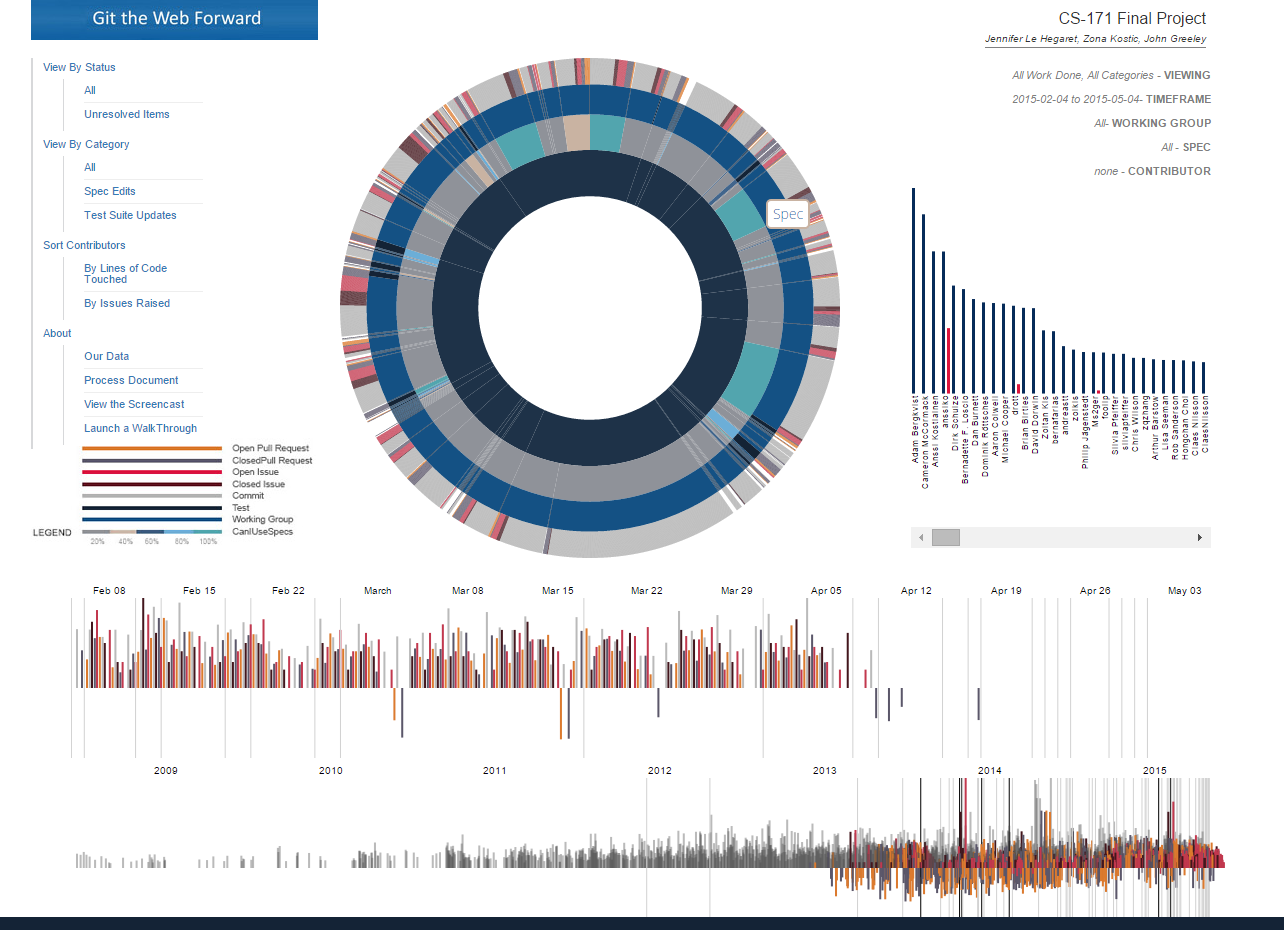
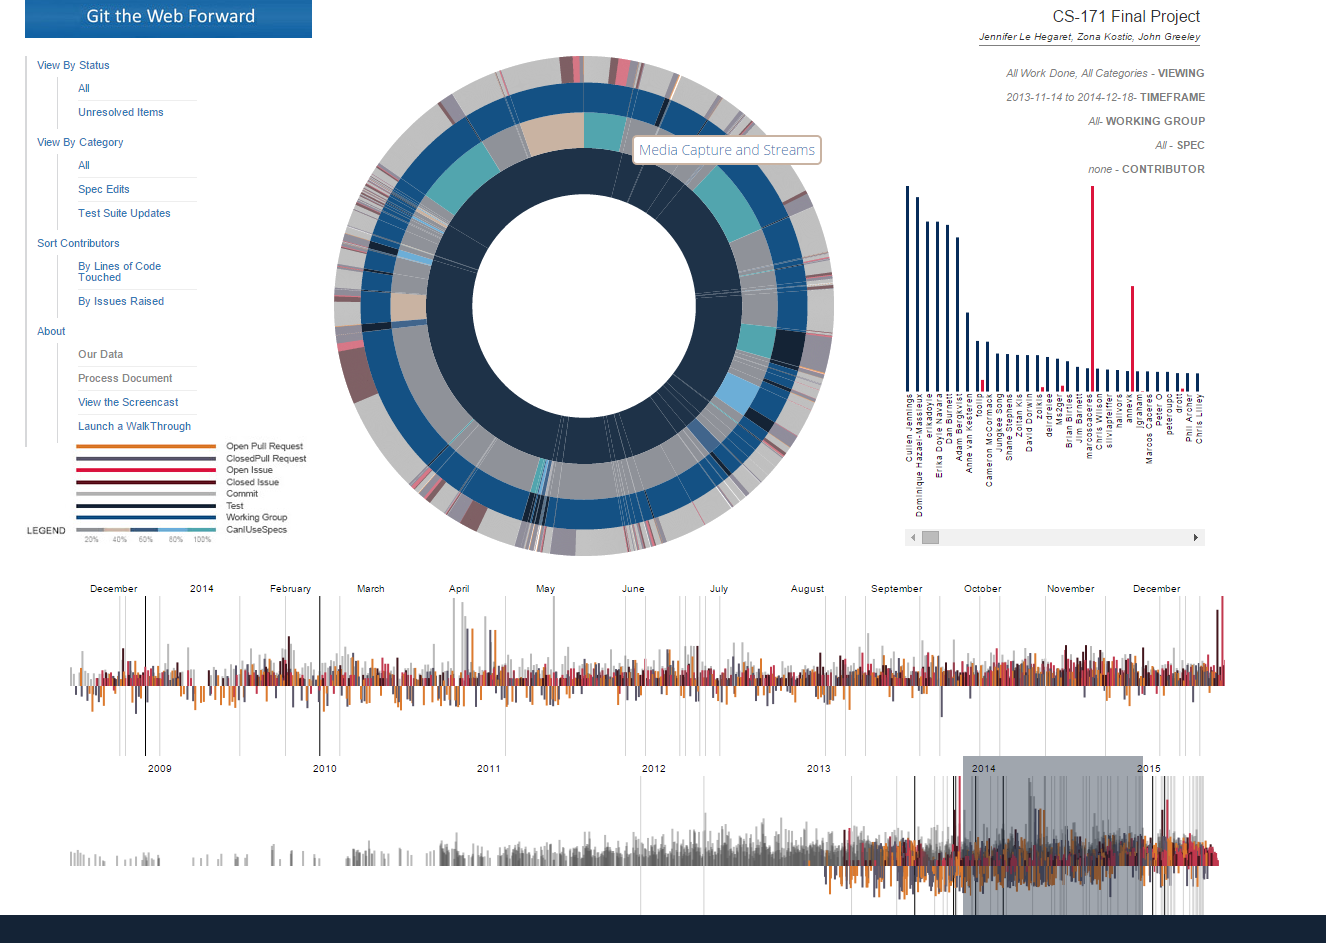
Screenshots

diff --git a/process_doc/design_timeline.md b/process_doc/design_timeline.md
@@ -58,13 +58,7 @@ However, at this point, the timeline has had its tooltips deactivated, as they d
     <img src="images/Timeline4.png" width="600"/>
 </p>
 
-Unfortunately, the focus and context axis proved actually quite difficult to implement, and days passed without progress.  Luckily, as the deadline approached and things on that front looked grim, Jennifer had the idea just to harness our existing timeline vis code twice in order to create the same effect ourselves - one above to provide the focus, and one below to provide the overview.  The top graph could offer tooltips while the bottom one offered the brushing.  (Thank you, Section 3!)
-
-<p align="center">
-    <img src="images/Timeline5.png" width="600"/>
-</p>
-
-IN THE END - what tooltips are there.
+Unfortunately, the focus and context axis proved actually quite difficult to implement, and days passed without progress.  Luckily, as the deadline approached and things on that front looked grim, Jennifer had the idea just to harness our existing timeline vis code twice in order to create the same effect ourselves - one above to provide the focus, and one below to provide the overview.  The top graph could offer tooltips while the bottom one offered the brushing.  (Thank you, CS171's Section 3!)
 
 <p align="center">
     <img src="images/FINAL_Timeline.png" width="600"/>

diff --git a/process_doc/design_sunburst.md b/process_doc/design_sunburst.md
@@ -46,8 +46,16 @@ We also added outward-going interaction - as the user zooms in and out of the di
 </p>
 
 
-In our final version,  -- inward interaction, final tooltip format.
+In our final version, the sunburst's coloring of the spec successfully translates our derived CanIUse score into a color scheme.
 
 <p align="center">
     <img src="images/FINAL_Sunburst.png" width="600"/>
 </p>
+
+It also reacts to all of the other filtering events which occur on the page.  It always displays every Working Group and Spec, but it only displays elements in the outer most ring when work has been done that meets the criteria:
+
+<p align="center">
+    <img src="images/FINAL_Sunburst_Filtered.png" width="600"/>
+</p>
+
+Here, we can see that contributor Ms2ger does a lot of work for the HTML Working Group and also helps out other Working Groups (via all of the closed pull requests displayed for those), and we can also see what that contributor DOESN'T work on (via all of the gaps).

diff --git a/process_doc/design_index.md b/process_doc/design_index.md
@@ -33,4 +33,7 @@ As we continued work on each visualization within the pages, improving focus cap
     <img src="images/FINAL_Dashboard.png" width="600"/>
 </p>
 
+We have a lot of informative elements now as well as our actual graphs.  We have a legend just under our menu options, and we have a listing in the upper right to summarize all of the applied filters.
+
+All elements on the page communicate with each other and even update the URL, so that we can (pretty much) bookmark a page to show our favorite view of the data.  The one limitation to that is currently the sunburst graph, which does not take an argument as to "zoom level" upon loading.
 
